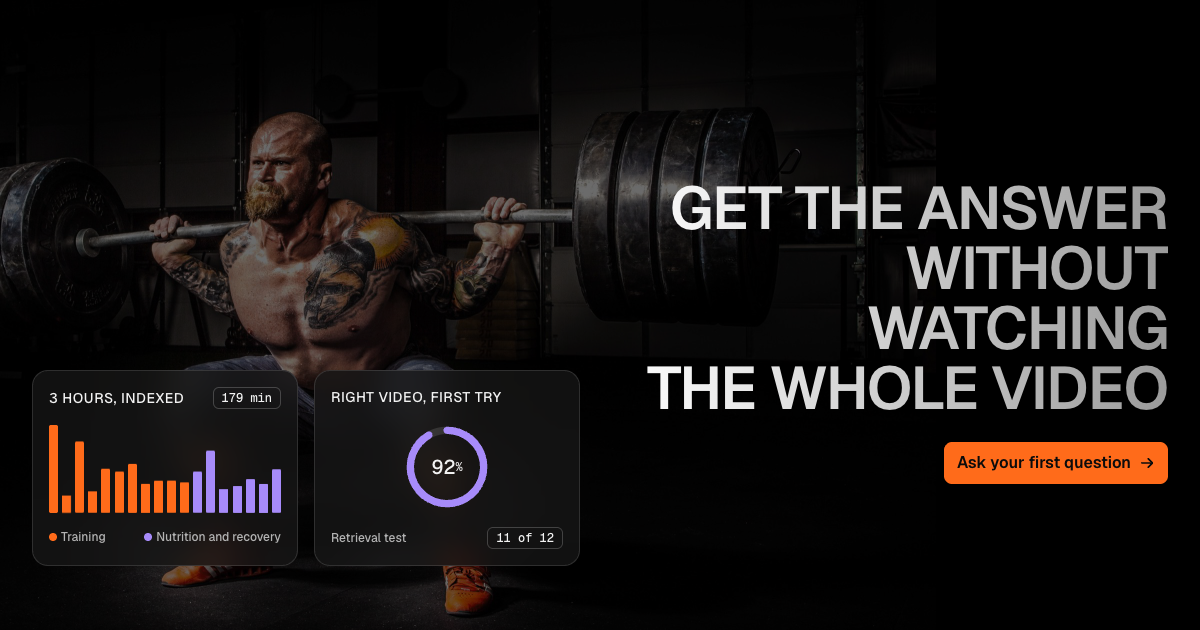
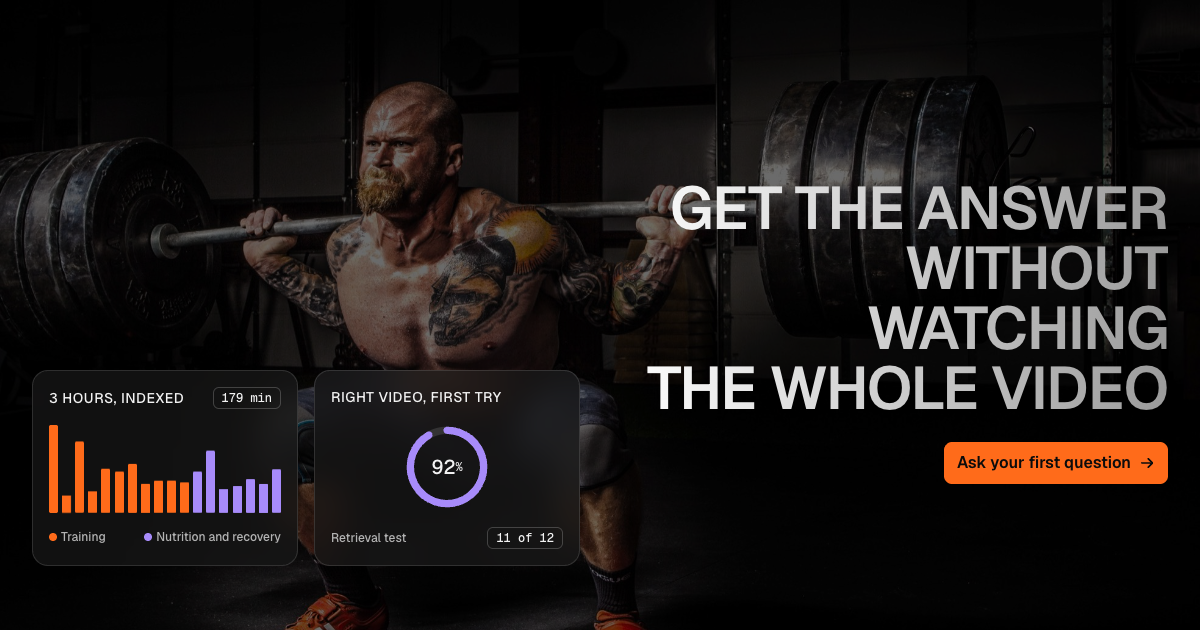
Fix empty strip on the right of the hero photo
The global img max-width capped the widened photo at 100%, so shifting it
left left a black strip on the right. Set width 122% with max-width none.

diff --git a/frontend/src/pages/landing.css b/frontend/src/pages/landing.css
@@ -28,7 +28,7 @@
   .hero-copy { grid-column: 2; grid-row: 1 / span 2; align-self: center; align-items: flex-end; text-align: right; }
   .hero-cards { grid-column: 1; grid-row: 2; align-self: end; }
   /* move the lifter left so the heading has open space on the right */
-  .hero .hero-photo img { width: 125%; left: -22%; }
+  .hero .hero-photo img { left: -22%; width: 122%; max-width: none; }
 }
 
 .badge {
